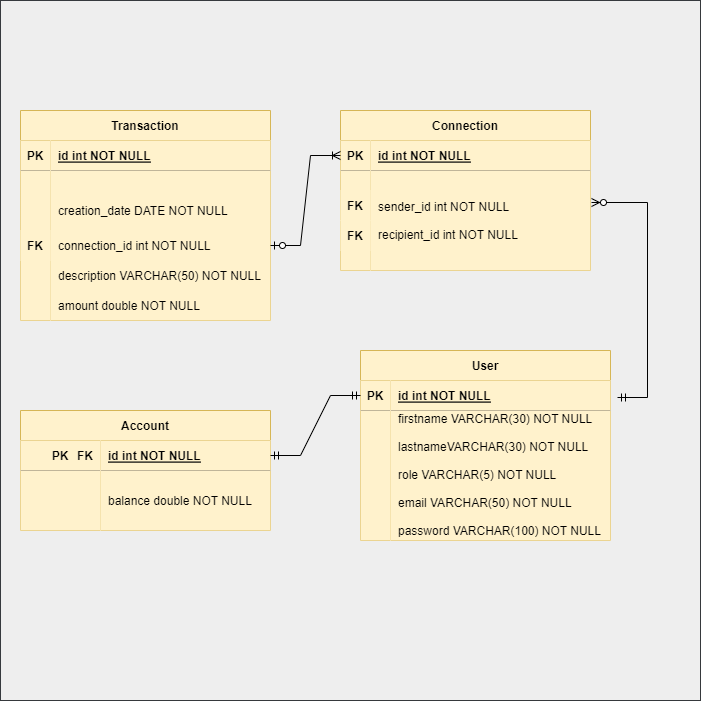
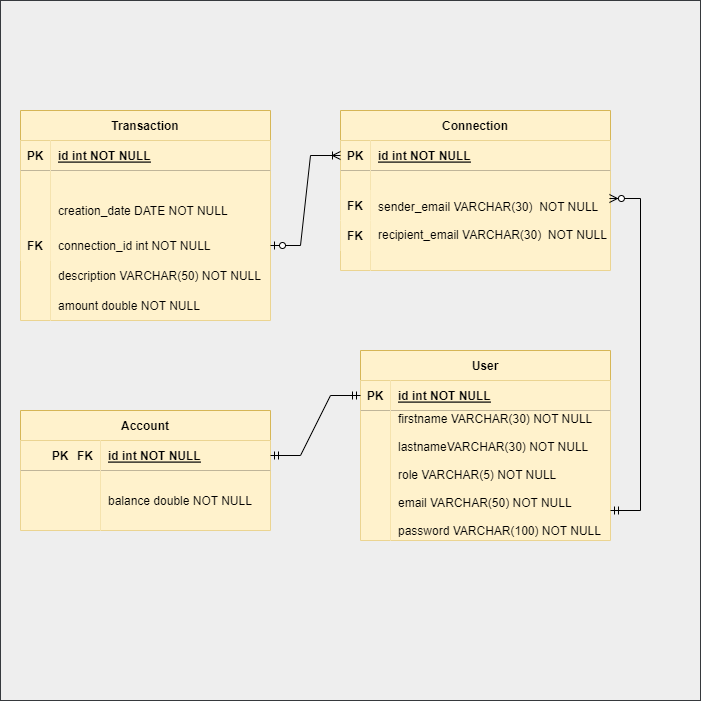
changing connection table with email instead of id to join user

Changed region(s): [[0.5991, 0.1498, 0.9287, 0.3894], [0.6291, 0.1498, 0.719, 0.2097], [0.8987, 0.5392, 0.9287, 0.5692]]

diff --git a/payMyBuddy/src/main/java/com/phildev/pmb/model/Connection.java b/payMyBuddy/src/main/java/com/phildev/pmb/model/Connection.java
@@ -13,11 +13,11 @@ public class Connection {
     @GeneratedValue(strategy = GenerationType.IDENTITY)
     private int id;
 
-    @Column(name = "sender_id")
-    private int senderId;
+    @Column(name = "sender_email")
+    private String senderEmail;
 
-    @Column(name = "recipient_id")
-    private int recipientId;
+    @Column(name = "recipient_email")
+    private String recipientEmail;
 
     @OneToMany(
             cascade = CascadeType.ALL,
@@ -35,21 +35,22 @@ public class Connection {
         this.id = id;
     }
 
-    public int getSenderId() {
-        return senderId;
+    public String getSenderEmail() {
+        return senderEmail;
     }
 
-    public void setSenderId(int senderId) {
-        this.senderId = senderId;
+    public void setSenderEmail(String senderEmail) {
+        this.senderEmail = senderEmail;
     }
 
-    public int getRecipientId() {
-        return recipientId;
+    public String getRecipientEmail() {
+        return recipientEmail;
     }
 
-    public void setRecipientId(int recipientId) {
-        this.recipientId = recipientId;
+    public void setRecipientEmail(String recipientEmail) {
+        this.recipientEmail = recipientEmail;
     }
+
 
     public List<Transaction> getTransactions() {
         return transactions;

diff --git a/payMyBuddy/src/main/java/com/phildev/pmb/model/User.java b/payMyBuddy/src/main/java/com/phildev/pmb/model/User.java
@@ -30,7 +30,7 @@ public class User {
             fetch = FetchType.EAGER,
             orphanRemoval = true
     )
-    @JoinColumn(name = "sender_id")
+    @JoinColumn(name = "sender_email")
     private List<Connection> connections;
 
     public int getId() {
